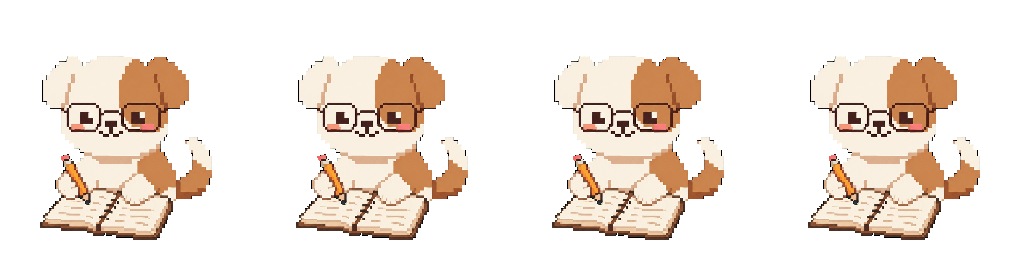
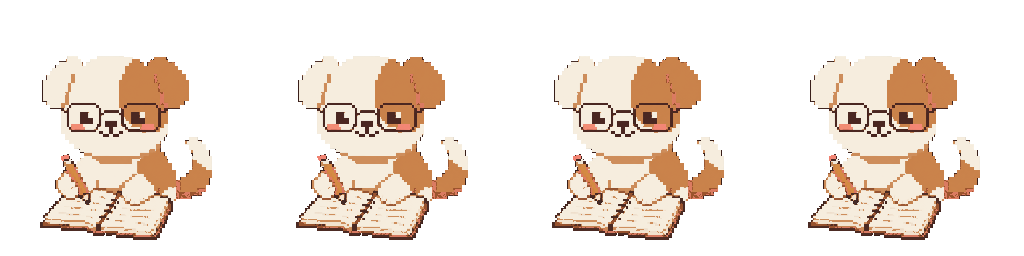
Match writing sprite colours

diff --git a/scripts/sprites.py b/scripts/sprites.py
@@ -547,6 +547,15 @@ def build_writing(art: Path = ART, out: Path = OUT_WRITING):
     )
     base = np.zeros((CELL * scale, CELL * scale, 4), np.uint8)
     base[top*scale:pose.ground*scale, left*scale:(left+width)*scale] = np.array(small)
+    # Bring the detailed art toward the other poses' flat colours without losing fine shading.
+    colours = base[:, :, :3].astype(float)
+    palette = np.array([colour for name, colour in PALETTE.items() if name != "salmon"], dtype=float)
+    nearest = ((colours[:, :, None] - palette) ** 2).sum(-1).argmin(-1)
+    tones = palette[nearest]
+    blush = (colours[:, :, 0] - colours[:, :, 1] > 60) & (colours[:, :, 1] - colours[:, :, 2] < 40)
+    tones[blush] = PALETTE["salmon"]
+    opaque = base[:, :, 3] > 0
+    base[opaque, :3] = np.rint(colours[opaque] * 0.25 + tones[opaque] * 0.75).astype(np.uint8)
     frames = []
     cy0, cy1, cx0, cx1 = (value * scale for value in PENCIL_CLEAR)
     yy, xx = np.mgrid[cy0:cy1, cx0:cx1]
